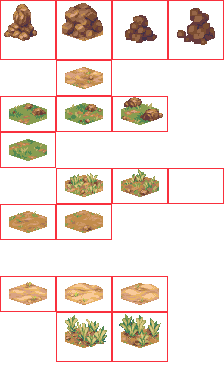
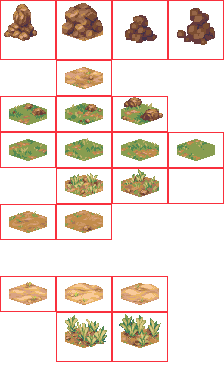
Added some basic grass tile variant graphics.

Changed region(s): [[0.25, 0.3438, 1.0, 0.4375]]

diff --git a/src/game/core/data/Image_Data.ts b/src/game/core/data/Image_Data.ts
@@ -323,6 +323,33 @@ export const image_data_list: Array<ImageData> = [{
 	},
 },{
 	url: "hex-tile-experiment-tiles.png",
+	name: "grass2",
+	bounds: {
+		x: 57,
+		y: 133,
+		w: 54,
+		h: 34,
+	},
+},{
+	url: "hex-tile-experiment-tiles.png",
+	name: "grass3",
+	bounds: {
+		x: 113,
+		y: 133,
+		w: 54,
+		h: 34,
+	},
+},{
+	url: "hex-tile-experiment-tiles.png",
+	name: "grass4",
+	bounds: {
+		x: 169,
+		y: 133,
+		w: 54,
+		h: 34,
+	},
+},{
+	url: "hex-tile-experiment-tiles.png",
 	name: "dirt2",
 	bounds: {
 		x: 57,

diff --git a/src/game/core/data/Tile_Types.ts b/src/game/core/data/Tile_Types.ts
@@ -34,6 +34,21 @@ export const tile_types: Array<TileItem> = [
 					id: 'grass1',
 					zorder: zorder.grass,
 				}],
+			},{
+				graphics: [{
+					id: 'grass2',
+					zorder: zorder.grass,
+				}],
+			},{
+				graphics: [{
+					id: 'grass3',
+					zorder: zorder.grass,
+				}],
+			},{
+				graphics: [{
+					id: 'grass4',
+					zorder: zorder.grass,
+				}],
 			}
 		],
 	},{
